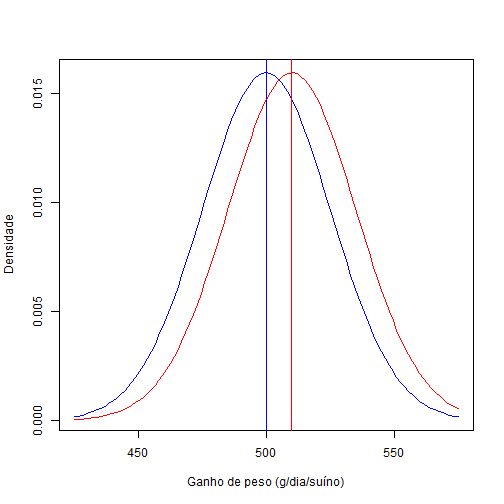
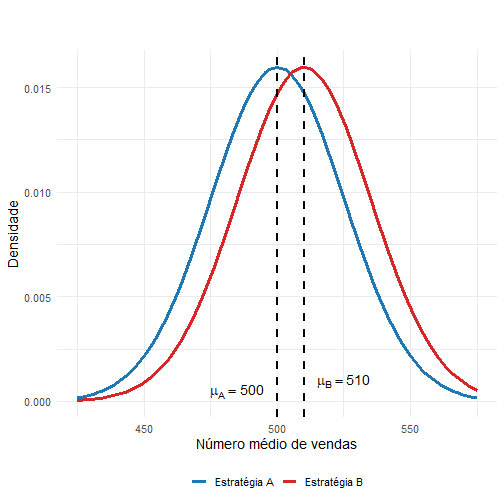
aula 11

diff --git a/slides/Aula11.html b/slides/Aula11.html
@@ -1,7 +1,7 @@
 <!DOCTYPE html>
 <html lang="" xml:lang="">
   <head>
-    <title>Estatística e Informática</title>
+    <title>Estatística &amp; Estatística e Informática</title>
     <meta charset="utf-8" />
     <meta name="author" content="Alan Rodrigo Panosso alan.panosso@unesp.br" />
     <script src="libs/header-attrs/header-attrs.js"></script>
@@ -13,10 +13,10 @@
 class: center, middle, inverse, title-slide
 
 .title[
-# Estatística e Informática
+# Estatística &amp; Estatística e Informática
 ]
 .subtitle[
-## Aula 11 - Testes de Hipótese
+## Testes de Hipótese
 ]
 .author[
 ### Alan Rodrigo Panosso <a href="mailto:alan.panosso@unesp.br" class="email">alan.panosso@unesp.br</a>
@@ -25,7 +25,7 @@ class: center, middle, inverse, title-slide
 ### Departamento de Ciências Exatas FCAV/UNESP
 ]
 .date[
-### (23-05-2024)
+### 11 e 12 de junho de 2026
 ]
 
 ---
@@ -48,14 +48,17 @@ class: middle, center, inverse
 Tal afirmação é o que se chama **Hipótese Estatística** e a regra usada para decidir se ela é verdadeira ou não, é o **Teste de Hipóteses**. 
 
 ---
-**Exemplo 1**.  Uma suinocultura usa uma ração `\(A\)` que propicia, da desmama até a idade de abate, um ganho em peso de `\(500 g/dia/suíno\)` `\((\sigma = 25 g)\)`.  O fabricante de uma ração `\(B\)` afirma que nas mesmas condições, sua ração propicia um ganho de `\(510 g/dia/suíno\)` `\((\sigma = 25 g/dia/suíno)\)`. 
+**Exemplo 1**.  Uma empresa utiliza uma estratégia de marketing digital `\(A\)` que resulta em uma média de `\(500 vendas mensais\)` `\((\sigma = 25 \;vendas)\)`.  Uma agência de marketing afirma que sua nova estratégia `\(B\)` pode elevar esse número para `\(510\)` vendas mensais `\((\sigma = 25\; vendas)\)`. 
 
+&lt;img src = https://images.pexels.com/photos/7688102/pexels-photo-7688102.jpeg width="600"&gt;
+
+---
 
 &lt;img src="Aula11_files/figure-html/unnamed-chunk-1-1.png" style="display: block; margin: auto;" /&gt;
 
 
 ---
-Considerando a amostra de `\(50\)` leitões, aos quais foi fornecida a nova ração `\((B)\)`, deve-se ou não adotar essa ração, admitindo-se como resultado um ganho em peso médio diário de `\(504 g/dia/suíno\)` `\(( \bar{X})\)`, fixando-se `\(\alpha= 5\%\)`.
+Considerando uma amostra de `\(50\)` períodos de veiculação da nova campanha de marketing `\((B)\)`, deve-se ou não adotar essa campanha, admitindo-se como resultado uma média de `\(504\)` vendas por período `\((\bar{X})\)`, fixando-se `\(\alpha=5\%\)`.
 
 &lt;img src="Aula11_files/figure-html/unnamed-chunk-2-1.png" style="display: block; margin: auto;" /&gt;
 ---
@@ -67,25 +70,28 @@ Utilizadas em experimentos comparativos, nos quais um novo produto ou nova técn
 
 **Hipótese alternativa `\((H_1)\)`:** deve ser tomada como verdadeira caso a hipótese da nulidade seja descartada.
 
+`$$\begin{cases}
+H_0 = \mu = 500 \text{ vendas mensais} \\
+H_1 = \mu = 510 \text{ vendas mensais}
+\end{cases}$$`
 
-&lt;img src="https://raw.githubusercontent.com/arpanosso/estatinfo/master/slides/img/testeH_01.png" width="100%" style="display: block; margin: auto;" /&gt;
 
 
 
 ---
 ### Estatística teste
 
-Para a tomada de decisão, deve-se extrair uma amostra aleatória (por exemplo, `\(n = 50\)` ). Calcula-se a média amostral `\(\bar{x}_a\)` do, no exemplo, ganho de peso diário no período.
+Para a tomada de decisão, deve-se extrair uma amostra aleatória (por exemplo, `\(n = 50\)` ). Calcula-se a média amostral `\(\bar{x}_a\)` do, no exemplo, número de vendas mensais.
 
-Se `\(\bar{x}_a\)` estiver próxima de `\(500\;g\)`, **não se deve rejeitar `\(H_0\)`**, e a **conclusão** será que a ração do tipo `\(B\)` é *estatisticamente* igual à ração do tipo `\(A\)`.
+Se `\(\bar{x}_a\)` estiver próxima de `\(500\)`, **não se deve rejeitar `\(H_0\)`**, e a **conclusão** será que a estratégia `\(B\)` é *estatisticamente* igual à estratégia `\(A\)`.
 
-Se `\(\bar{x}_a\)` estiver próxima ou for superior à `\(500\;g\)`, **rejeita-se `\(H_0\)` em favor a `\(H_1\)`** e a **conclusão**  será que a ração do tipo `\(B\)` é superior à do tipo `\(A\)`, tal resultado implica no fato de que a suinocultura poderá utilizá-la.
+Se `\(\bar{x}_a\)` estiver próxima ou for superior à `\(500\)`, **rejeita-se `\(H_0\)` em favor a `\(H_1\)`** e a **conclusão**  será que a estratégia `\(B\)` é superior à `\(A\)` quanto o número de ventas, tal resultado implica no fato de que a empresa poderá utilizá-la.
 
 ---
 
 ### Critério de decisão 
 
-Para aceitar ou rejeitar `\(H_0\)`, determina-se um valor `\(k\)` (ponto) entre `\(500\)` e `\(510 \;g\)`, chamado valor crítico, `\(\bar{x}_c\)`.
+Para aceitar ou rejeitar `\(H_0\)`, determina-se um valor `\(k\)` (ponto) entre `\(500\)` e `\(510\)`, chamado valor crítico, `\(\bar{x}_c\)`.
 
 &lt;img src="https://raw.githubusercontent.com/arpanosso/estatinfo/master/slides/img/testeH_02.png" width="100%" style="display: block; margin: auto;" /&gt;
 
@@ -93,16 +99,24 @@ O procedimento do teste, então, divide os possíveis valores da estatística te
 
 ---
 
-Por exemplo, se o verdadeiro valor do parâmetro `\(\mu\)` é `\(500\;g\)` e incorretamente concluímos que `\(\mu = 510\;g\)`, cometeremos um erro referido como **ERRO TIPO I (falso positivo)**. 
+Por exemplo, se o verdadeiro valor do parâmetro `\(\mu\)` é `\(500\; vendas\)` e incorretamente concluímos que `\(\mu = 510\;vendas\)`, cometeremos um erro referido como **ERRO TIPO I (falso positivo)**. 
 
-Por outro lado, se o verdadeiro valor de `\(\mu\)` é `\(510\;g\)` e incorretamente concluímos  que `\(\mu = 500 \;g\)`, cometeremos uma segunda espécie de erro, referido como **ERRO TIPO II (falso negativo)**.
+![](img/false_positive_hotdog.png)
+
+---
+
+Por outro lado, se o verdadeiro valor de `\(\mu\)` é `\(510\)` e incorretamente concluímos  que `\(\mu = 500\)`, cometeremos uma segunda espécie de erro, referido como **ERRO TIPO II (falso negativo)**.
+
+![](img/false_negative_hotdog.png)
 
 ---
 ## Erros tipo I e II
 
- | Situação específica | na População
+Situação específica na População
+
+
+*Conclusão do Teste* | `\(H_0\)` verdadeira | `\(H_0\)` falsa
 ---|---:|:---|
-Conclusão do Teste | `\(H_0\)` verdadeira | `\(H_0\)` falsa
 Não Rejeita `\(H_0\)` | Decisão correta | Erro tipo II (perdas potenciais)
 Rejeitar `\(H_0\)` | Erro tipo I (perdas reais) | Decisão Correta
 
@@ -224,9 +238,9 @@ Com base nessa amostra, pode-se concluir, ao nível de significância de `\(1\%\
 <style data-target="print-only">@media screen {.remark-slide-container{display:block;}.remark-slide-scaler{box-shadow:none;}}</style>
 <script src="https://remarkjs.com/downloads/remark-latest.min.js"></script>
 <script>var slideshow = remark.create({
-"highlightStyle": "github",
-"highlightLines": true,
-"countIncrementalSlides": false
+  "highlightStyle": "github",
+  "highlightLines": true,
+  "countIncrementalSlides": false
 });
 if (window.HTMLWidgets) slideshow.on('afterShowSlide', function (slide) {
   window.dispatchEvent(new Event('resize'));
